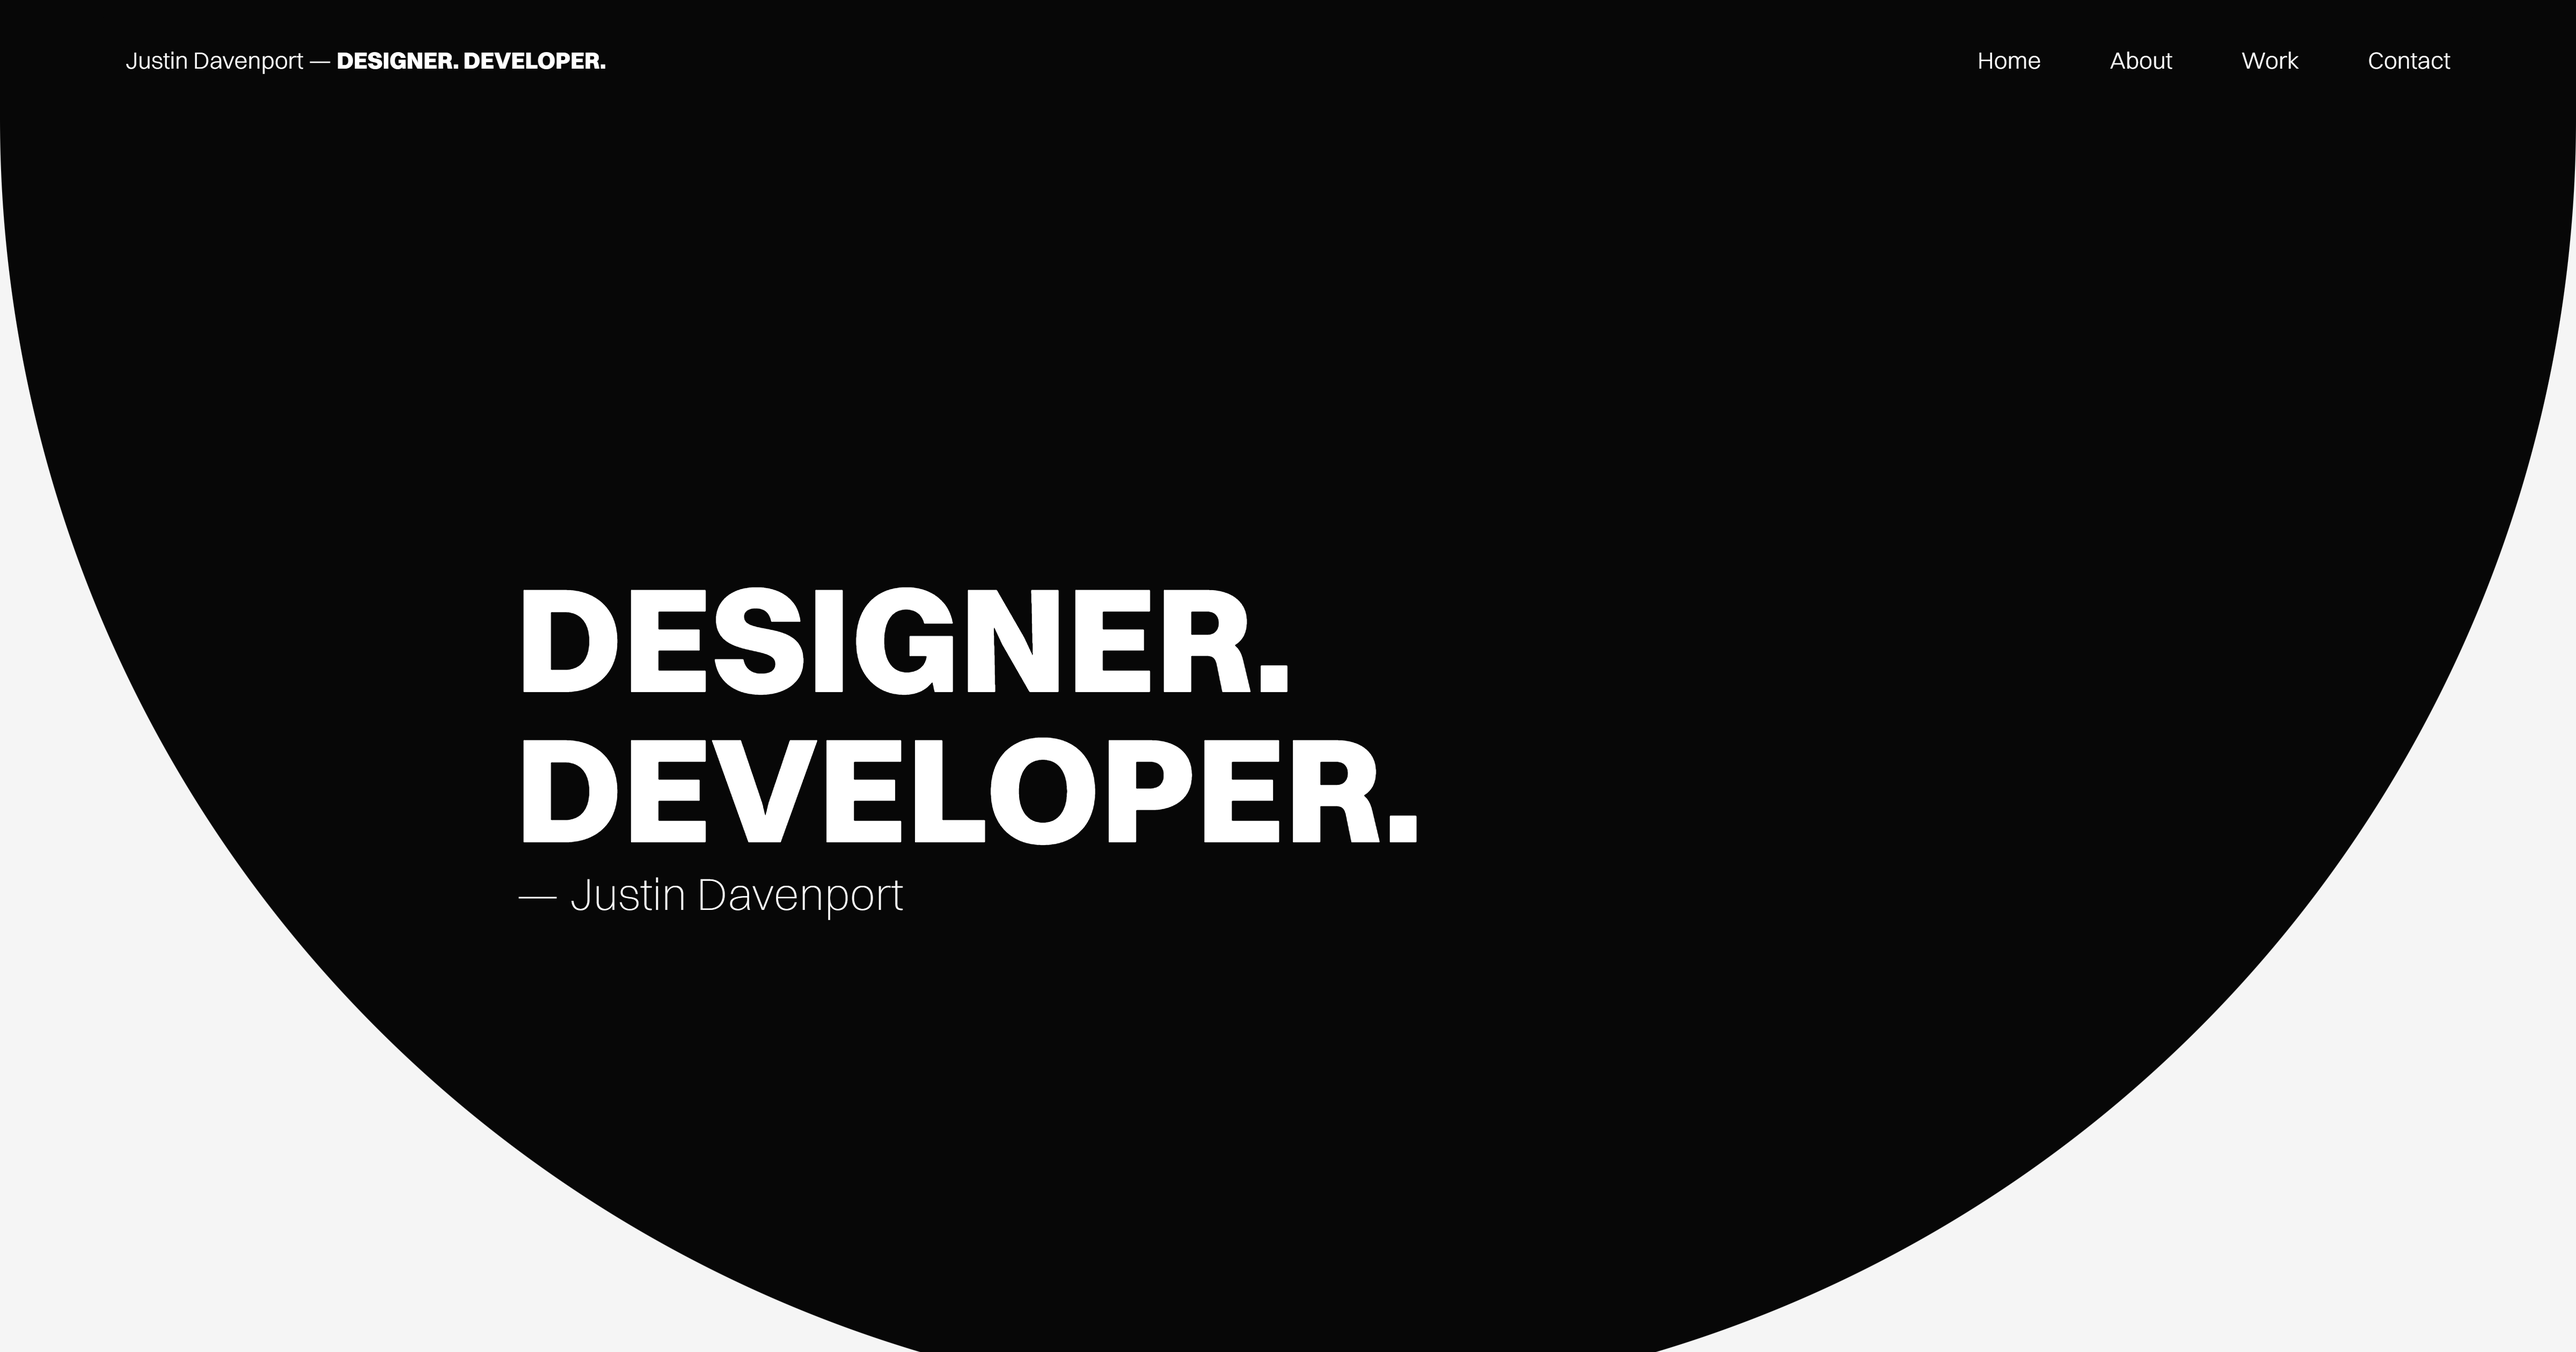
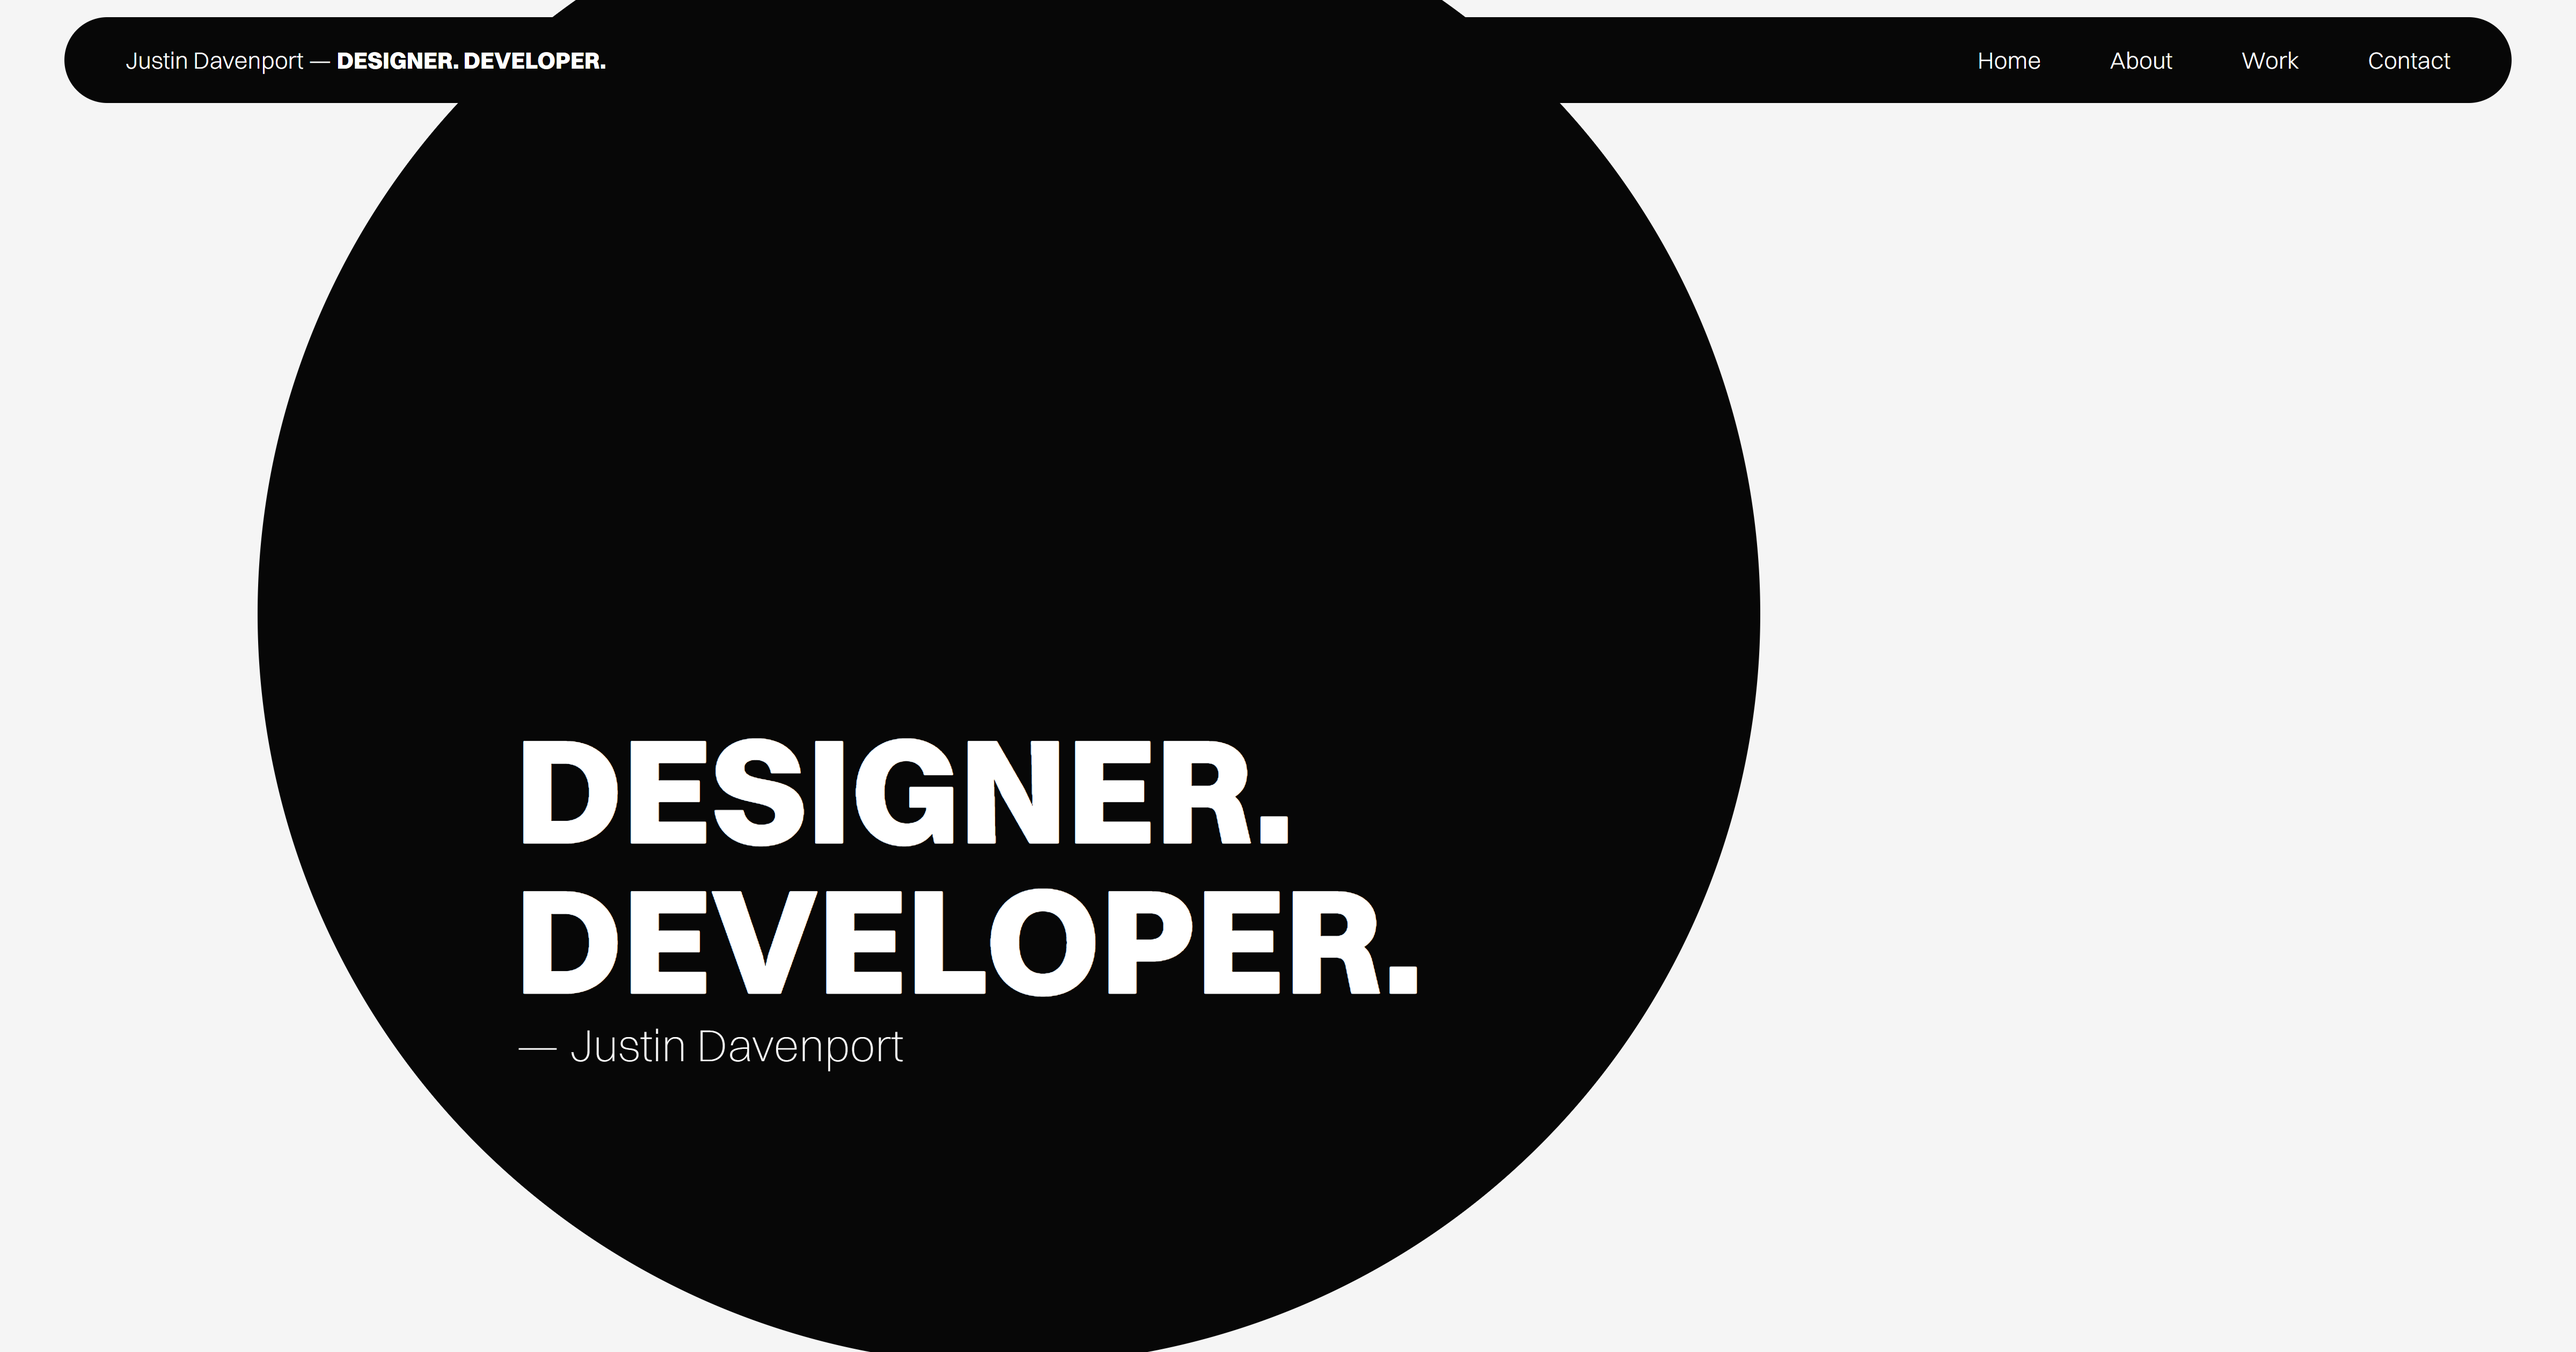
.

diff --git a/src/app/page.tsx b/src/app/page.tsx
@@ -68,12 +68,15 @@ export default function Home() {
 
       <div
         className="container-holder-top"
-        style={{
-          minHeight: "104vh",
-          background: "#070707",
-          borderRadius: "0 0 100rem 100rem",
-        }}
+        style={
+          {
+            // minHeight: "104vh",
+            // background: "#070707",
+            // borderRadius: "0 0 100rem 100rem",
+          }
+        }
       >
+        <div className="orb-black"></div>
         <div className="container-title">
           <h1>DESIGNER. DEVELOPER.</h1>
           <h2>— Justin Davenport</h2>
@@ -111,10 +114,7 @@ export default function Home() {
             gap: "2rem",
           }}
         >
-          <div
-            className="text-holder"
-            style={{ margin: "0", paddingTop: "4rem" }}
-          >
+          <div className="text-holder">
             <h2>Welcome to my digital journey.</h2>
             <br />
             <p>
@@ -297,7 +297,7 @@ export default function Home() {
                 style={{
                   lineHeight: "0",
                   fontWeight: "500",
-                  fontSize: "clamp(12px, 2vw, 18px)",
+                  fontSize: "clamp(14px, 4vw, 18px)",
                 }}
               >
                 2024
@@ -335,7 +335,7 @@ export default function Home() {
                 style={{
                   lineHeight: "0",
                   fontWeight: "500",
-                  fontSize: "clamp(12px, 2vw, 18px)",
+                  fontSize: "clamp(14px, 4vw, 18px)",
                 }}
               >
                 2024
@@ -373,7 +373,7 @@ export default function Home() {
                 style={{
                   lineHeight: "0",
                   fontWeight: "500",
-                  fontSize: "clamp(12px, 2vw, 18px)",
+                  fontSize: "clamp(14px, 4vw, 18px)",
                 }}
               >
                 2024
@@ -411,7 +411,7 @@ export default function Home() {
                 style={{
                   lineHeight: "0",
                   fontWeight: "500",
-                  fontSize: "clamp(12px, 2vw, 18px)",
+                  fontSize: "clamp(14px, 4vw, 18px)",
                 }}
               >
                 2024
@@ -449,7 +449,7 @@ export default function Home() {
                 style={{
                   lineHeight: "0",
                   fontWeight: "500",
-                  fontSize: "clamp(12px, 2vw, 18px)",
+                  fontSize: "clamp(14px, 4vw, 18px)",
                 }}
               >
                 2024
@@ -486,7 +486,7 @@ export default function Home() {
                 style={{
                   lineHeight: "0",
                   fontWeight: "500",
-                  fontSize: "clamp(12px, 2vw, 18px)",
+                  fontSize: "clamp(14px, 4vw, 18px)",
                 }}
               >
                 2023
@@ -524,7 +524,7 @@ export default function Home() {
                 style={{
                   lineHeight: "0",
                   fontWeight: "500",
-                  fontSize: "clamp(12px, 2vw, 18px)",
+                  fontSize: "clamp(14px, 4vw, 18px)",
                 }}
               >
                 2023
@@ -565,7 +565,7 @@ export default function Home() {
                 style={{
                   lineHeight: "0",
                   fontWeight: "500",
-                  fontSize: "clamp(12px, 2vw, 18px)",
+                  fontSize: "clamp(14px, 4vw, 18px)",
                 }}
               >
                 2023
@@ -607,15 +607,12 @@ export default function Home() {
             gap: "2rem",
           }}
         >
-          <div
-            className="text-holder"
-            style={{ margin: "0", paddingTop: "4rem" }}
-          >
+          <div className="text-holder">
             <h2>Let&apos;s connect and create something together.</h2>
             <br />
             <p>
-              Feel free to reach out if you&apos;re seeking services in Branding,
-              UX/UI Design, 3D Modeling, App Design, or Web Design. I&apos;m here to
+              Get in touch if you&apos;re seeking services in Branding, UX/UI
+              Design, 3D Modeling, App Design, or Web Design. I&apos;m here to
               collaborate and bring your vision to life.
             </p>
           </div>

diff --git a/src/app/globals.css b/src/app/globals.css
@@ -59,11 +59,11 @@
   h2 {
     font-weight: 300;
     line-height: 1.4;
-    font-size: clamp(24px, 4vw, 42px);
+    font-size: clamp(28px, 4vw, 42px);
   }
 
   p {
-    font-size: clamp(14px, 2vw, 20px);
+    font-size: clamp(16px, 2vw, 20px);
     font-weight: 300;
     line-height: 1.4;
   }
@@ -121,7 +121,7 @@
   .nav-sub {
     width: 90%;
     display: flex;
-    justify-content: space-between;
+    justify-content: center;
     align-items: center;
     gap: 1rem;
     height: 5rem;
@@ -154,7 +154,7 @@
 
   .container-title {
     width: 95%;
-    margin-bottom: 18rem;
+    margin-bottom: 12rem;
     text-align: left;
 
     h1,
@@ -224,8 +224,7 @@
 
   .text-holder {
     width: 100%;
-    margin-top: 2rem;
-    margin-bottom: 4rem;
+    padding-top: 0rem;
   }
 
   a:hover {
@@ -248,6 +247,18 @@
     border-radius: 100rem;
     z-index: 1;
   }
+
+  .orb-black {
+    margin-left: -10%;
+    position: absolute;
+    top: 16rem;
+    left: 0rem;
+    width: 425px;
+    aspect-ratio: 1;
+    background: #070707;
+    border-radius: 100rem;
+    z-index: 1;
+  }
 }
 
 @media (min-width: 425px) {
@@ -255,11 +266,17 @@
     width: 400px;
     height: 720px;
   }
+
+  .orb-black {
+    width: 100%;
+    padding-bottom: 100%;
+  }
 }
 
 @media (min-width: 799px) {
   .nav-sub {
     width: 95%;
+    justify-content: space-between;
   }
 
   .nav-links {
@@ -267,12 +284,15 @@
     gap: 4rem;
   }
 
-  .text-holder {
-    margin-bottom: 8rem;
-  }
-
   .container-title {
     width: 60%;
+  }
+
+  .orb-black {
+    margin-left: 5%;
+    top: -4rem;
+    width: 100%;
+    padding-bottom: 100%;
   }
 }
 
@@ -287,7 +307,7 @@
 
   .text-holder {
     width: 60%;
-    margin-bottom: 10rem;
+    padding-top: 4rem;
   }
 
   .img-lg {
@@ -306,6 +326,19 @@
     margin-right: auto;
     height: 600px;
     width: 600px;
+  }
+
+  .orb-black {
+    margin-left: 10%;
+    position: absolute;
+    top: -8rem;
+    left: 0rem;
+    height: 1200px;
+    width: 1200px;
+    padding-bottom: 0%;
+    background: #070707;
+    border-radius: 100rem;
+    z-index: 1;
   }
 
   .contact-btn {
